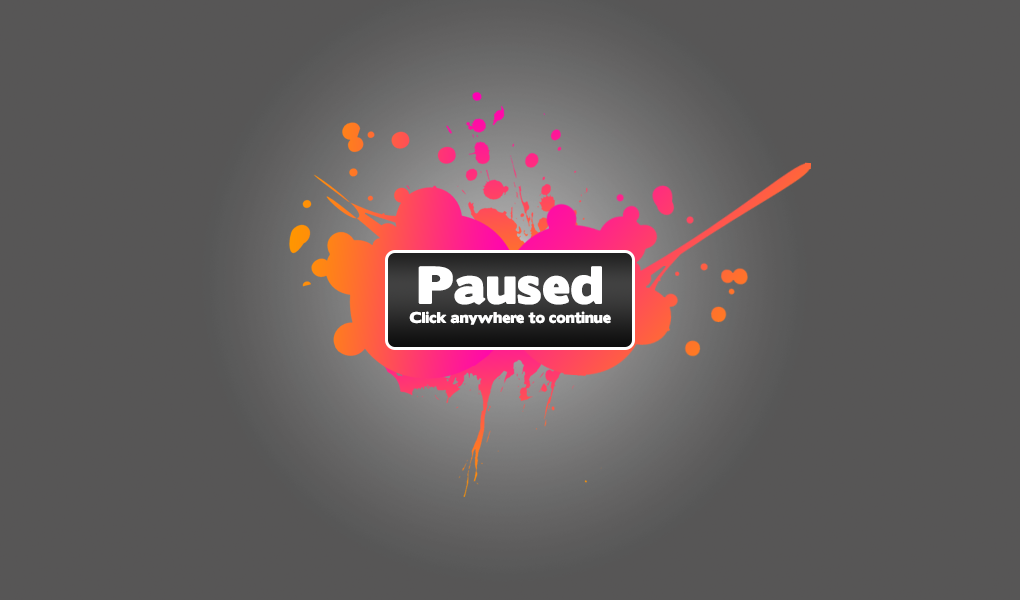
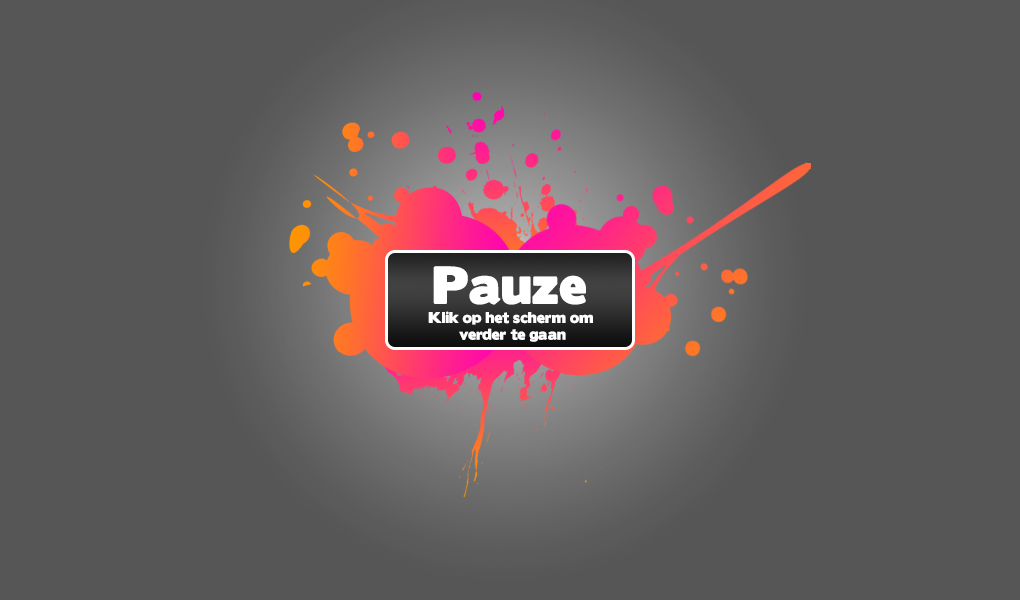
Added dog sprite, tutorial sign to level, updated pause screen

Changed region(s): [[0.3951, 0.42, 0.6078, 0.57]]

diff --git a/src/Preloader.ts b/src/Preloader.ts
@@ -27,6 +27,7 @@ module MyGame {
 
 			// Load items
 			this.load.image('bgTile', 'assets/bgTile.png')
+			this.load.image('tutorialSign', 'assets/tutorialSign.png')
 			this.load.image('platform', 'assets/platform.png')
 			this.load.image('artPiece', 'assets/artPiece.png')
 			this.load.image('platformTile', 'assets/platformTile.png')
@@ -37,6 +38,7 @@ module MyGame {
 			this.load.image('elephanttop', 'assets/elephanttop.png')
 			this.load.spritesheet('airflow', 'assets/airflow.png', 20, 32, 3)
 			this.load.spritesheet('longlegs', 'assets/Elephant_spritesheet.png', 150, 164, 7);
+			this.load.spritesheet('dog', 'assets/dogSheet.png', 68, 64, 8);
 
 			this.load.image('uiBase', 'assets/uiBase.png')
 			this.load.image('endSign', 'assets/endSign.png')

diff --git a/src/Level1.ts b/src/Level1.ts
@@ -43,6 +43,8 @@ module MyGame {
 			this.ground.body.immovable = true;
 			this.ground.body.allowGravity = false;
 
+			let tutSign = this.game.add.sprite(120 ,h-282 , 'tutorialSign')
+
 			this.ledge = this.add.group()
 			this.ledge.add(new Platform(this.game, 400, h-64));
 			this.ledge.add(new Platform(this.game, 800, h-64));

diff --git a/src/Enemy.ts b/src/Enemy.ts
@@ -8,7 +8,7 @@ module MyGame{
 
         constructor(game: Phaser.Game, x: number, y: number){
             
-            super(game, x, y, 'dude', 0);
+            super(game, x, y, 'dog', 0);
 
             this.game.physics.arcade.enableBody(this)
             this.body.collideWorldBounds=true;
